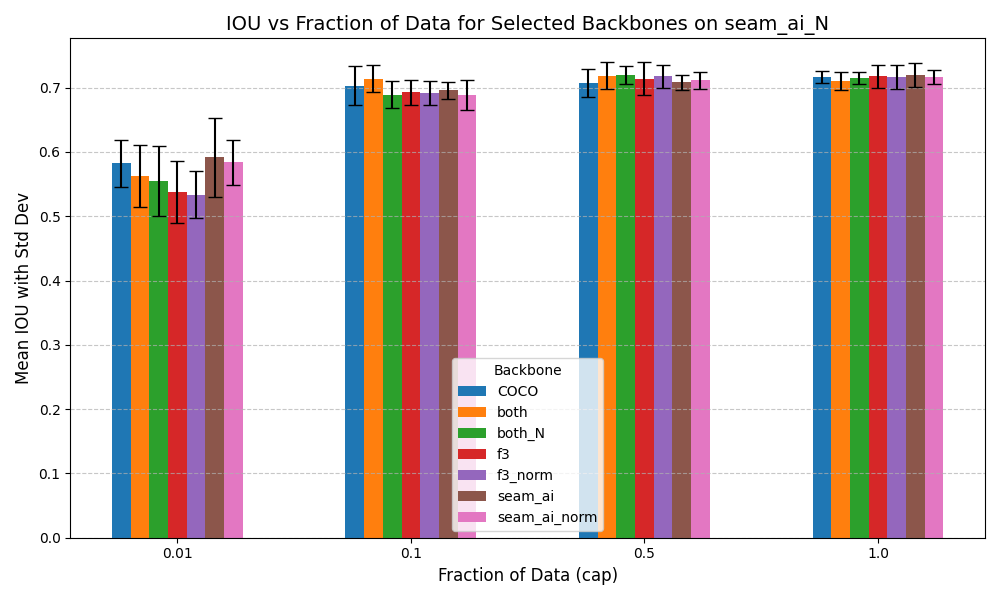
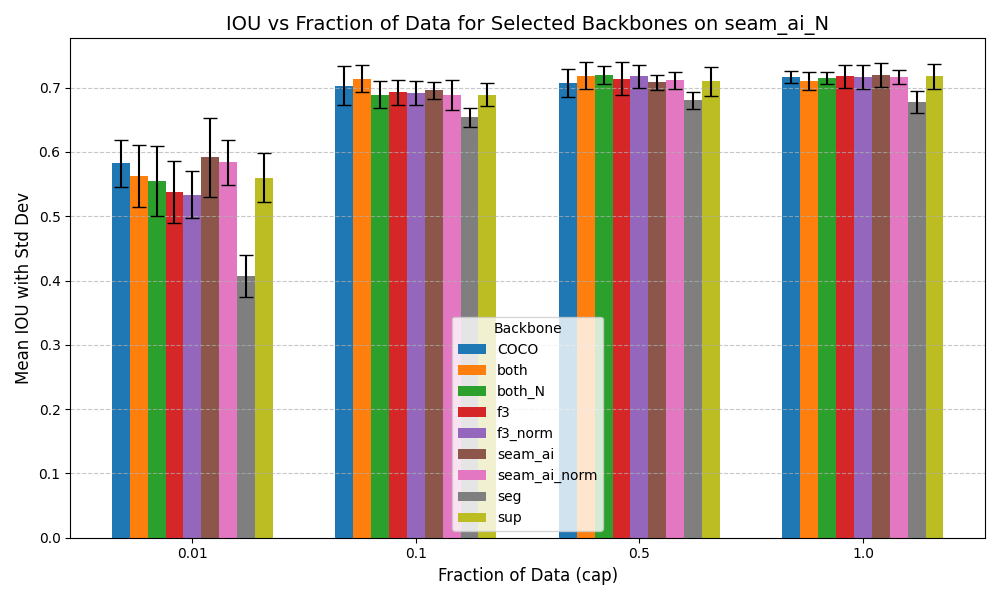
update csv

diff --git a/scripts/plot_results.py b/scripts/plot_results.py
@@ -103,29 +103,29 @@ plot_metrics(
 )
 plot_metrics(
     data_file="evaluation_results.csv",  # CSV file with evaluation results
-    output_file="outputs/donstream_f3_full.png",  # Output file for the plot
+    output_file="outputs/downstream_f3_full.png",  # Output file for the plot
     metric="iou",  # Metric to plot: "iou" or "f1"
-    selected_backbones=["f3", 'f3_norm', "seam_ai", 'seam_ai_norm', "both", 'both_N', 'COCO', 'imagenet '],  # Backbones to display
+    selected_backbones=["f3", 'f3_norm', "seam_ai", 'seam_ai_norm', "both", 'both_N', 'COCO', 'imagenet', 'seg', 'sup'],  # Backbones to display
     selected_data="f3"  # Data to filter by (set to None for all data)
 )
 plot_metrics(
     data_file="evaluation_results.csv",  # CSV file with evaluation results
     output_file="outputs/downstream_f3_N_full.png",  # Output file for the plot
     metric="iou",  # Metric to plot: "iou" or "f1"
-    selected_backbones=["f3", 'f3_norm', "seam_ai", 'seam_ai_norm', "both", 'both_N', 'COCO', 'imagenet '],  # Backbones to display
+    selected_backbones=["f3", 'f3_norm', "seam_ai", 'seam_ai_norm', "both", 'both_N', 'COCO', 'imagenet', 'seg', 'sup'],  # Backbones to display
     selected_data="f3_N"  # Data to filter by (set to None for all data)
 )
 plot_metrics(
     data_file="evaluation_results.csv",  # CSV file with evaluation results
     output_file="outputs/downstream_seam_ai_full.png",  # Output file for the plot
     metric="iou",  # Metric to plot: "iou" or "f1"
-    selected_backbones=["f3", 'f3_norm', "seam_ai", 'seam_ai_norm', "both", 'both_N', 'COCO', 'imagenet '],  # Backbones to display
+    selected_backbones=["f3", 'f3_norm', "seam_ai", 'seam_ai_norm', "both", 'both_N', 'COCO', 'imagenet', 'seg', 'sup'],  # Backbones to display
     selected_data="seam_ai"  # Data to filter by (set to None for all data)
 )
 plot_metrics(
     data_file="evaluation_results.csv",  # CSV file with evaluation results
     output_file="outputs/downstream_seam_ai_N_full.png",  # Output file for the plot
     metric="iou",  # Metric to plot: "iou" or "f1"
-    selected_backbones=["f3", 'f3_norm', "seam_ai", 'seam_ai_norm', "both", 'both_N', 'COCO', 'imagenet '],  # Backbones to display
+    selected_backbones=["f3", 'f3_norm', "seam_ai", 'seam_ai_norm', "both", 'both_N', 'COCO', 'imagenet', 'seg', 'sup'],  # Backbones to display
     selected_data="seam_ai_N"  # Data to filter by (set to None for all data)
 )

diff --git a/scripts/train.py b/scripts/train.py
@@ -131,7 +131,7 @@ def build_lightning_trainer(save_name:str, supervised:bool, epocas, reps) -> L.T
         max_epochs=epocas,
         logger=CSVLogger("logs", name="Supervised" if supervised else "Pretrained", version=save_name),
         callbacks=[checkpoint_callback],
-        devices=[1]
+        devices=[3]
         )
     
 ### --------------- Main -----------------------------------------------------------------
@@ -153,10 +153,11 @@ def train_func(epocas:int,
 
     # Load the pretrained backbone
     if mode == 'seg':
-        pretrained_backbone_checkpoint_filename = f"../saves/models/{repetition}/{import_name}.ckpt"
-        # pretrained_backbone_checkpoint_filename = f"../saves/models/{aux}/{import_name}.ckpt"
+        # pretrained_backbone_checkpoint_filename = f"../saves/models/{repetition}/{import_name}.ckpt"
+        pretrained_backbone_checkpoint_filename = f"../saves/models/{aux}/{import_name}.ckpt"
     else:
-        pretrained_backbone_checkpoint_filename = f"../saves/backbones/{repetition}/{import_name}.pth"
+        # pretrained_backbone_checkpoint_filename = f"../saves/backbones/{repetition}/{import_name}.pth"
+        pretrained_backbone_checkpoint_filename = f"../saves/backbones/{aux}/{import_name}.pth"
     print(f'Loading pretrained backbone from {pretrained_backbone_checkpoint_filename}')
     backbone = load_pretrained_backbone(pretrained_backbone_checkpoint_filename, mode=mode)
 

diff --git a/scripts/main_train.py b/scripts/main_train.py
@@ -30,8 +30,8 @@ def main():
     list_of_pretrains = ['f3', 'f3_norm', 'seam_ai', 'seam_ai_norm', 'both', 'both_N', 'COCO', 'IMAGENET', 'sup', 'seg']
 
     # list_of_datas = ['f3', 'seam_ai', 'f3_N', 'seam_ai_N']    
-    list_of_datas = ['f3_N']
-    # list_of_datas = ['f3_N']
+    list_of_datas = ['seam_ai_N']
+    # list_of_datas = ['f3_N']  
     # list_of_datas = ['seam_ai']
     # list_of_datas = ['seam_ai_N']
     
@@ -139,7 +139,7 @@ def main():
                         repetition=repetition,
                         seed=list_of_seeds[num],
                         root_dir=root_dir,
-                        # aux=list_of_repets_aux[num]
+                        aux=repetition_aux[num]
                     )
                         
                     with open(report_path + f'{REPORT_NAME}.txt', 'a') as f:
